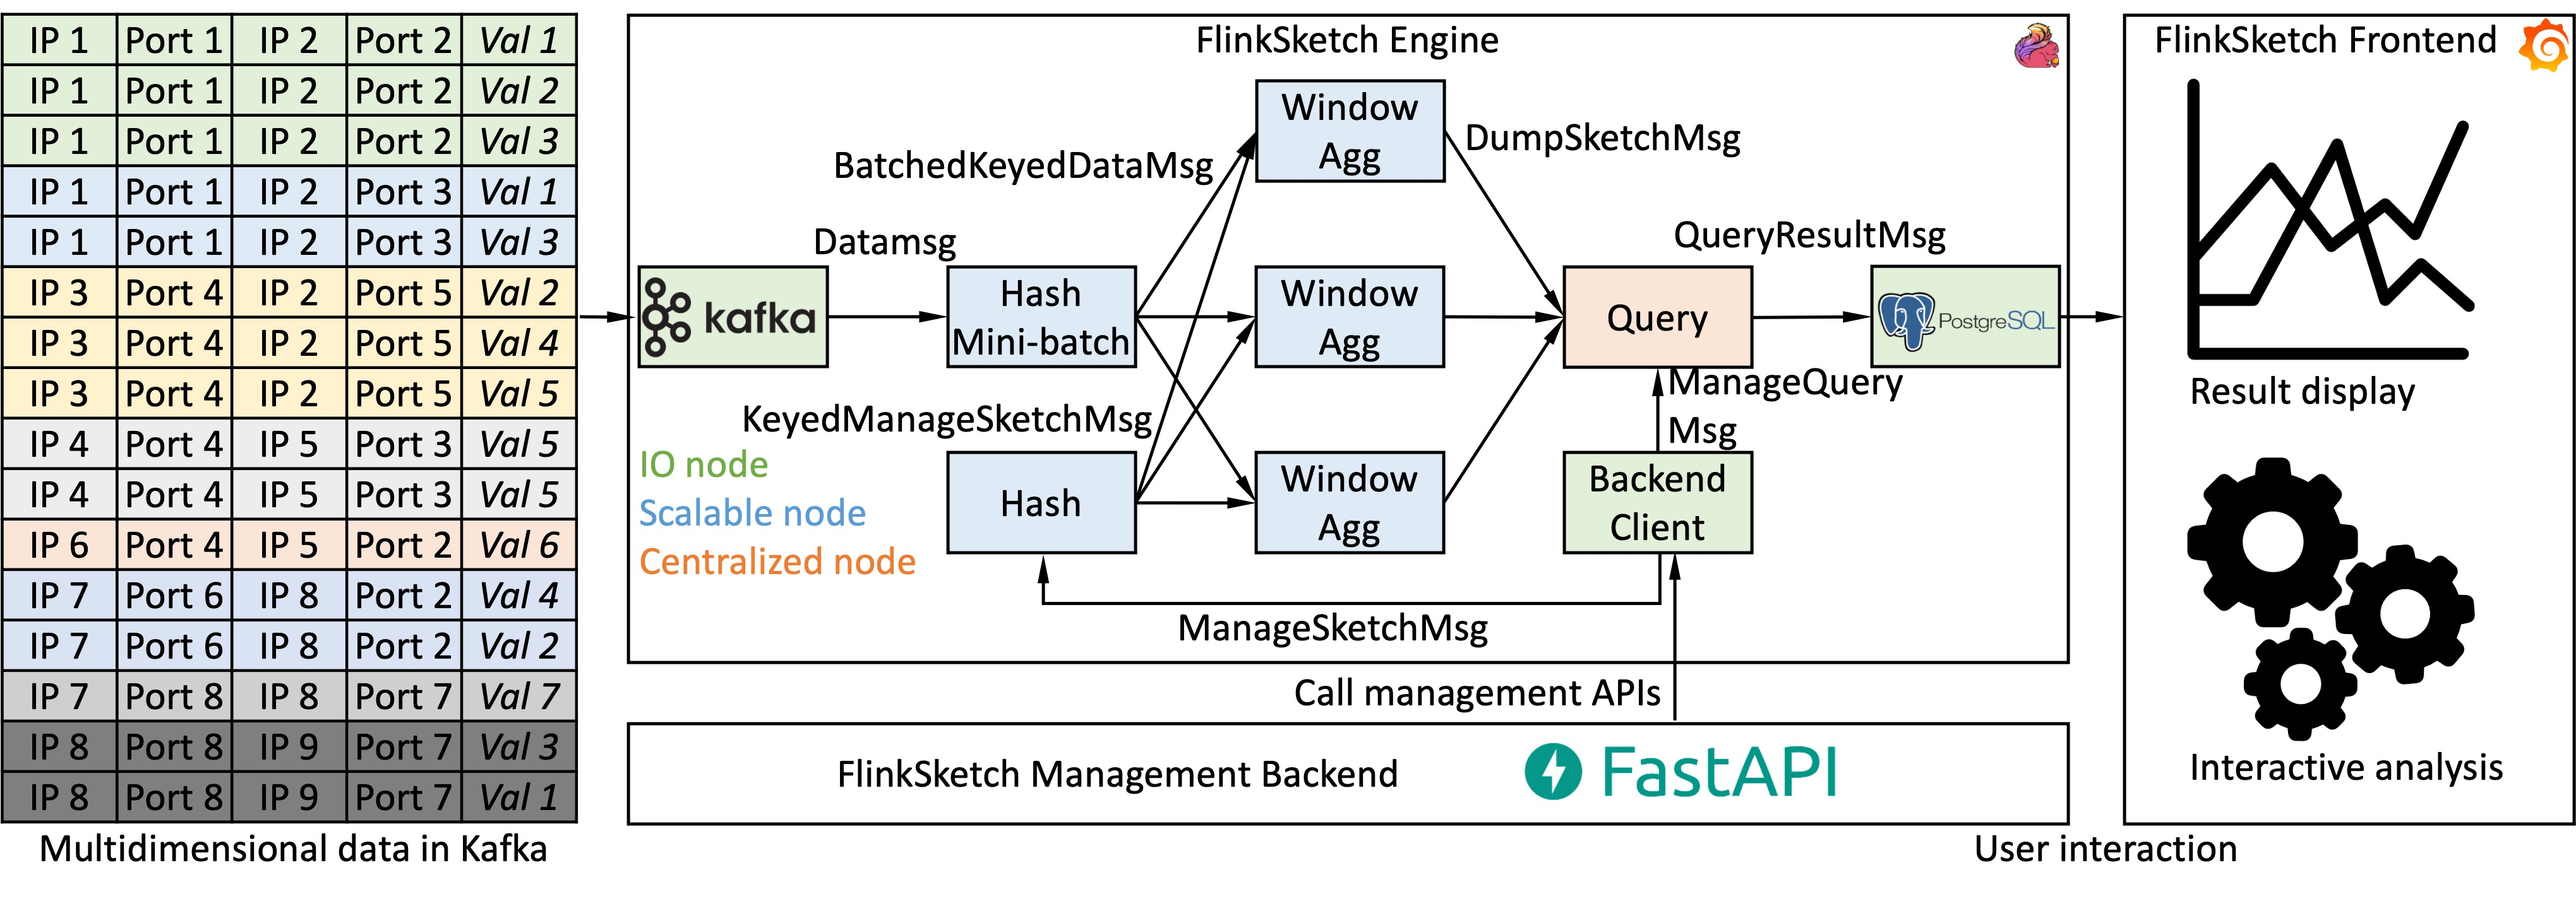
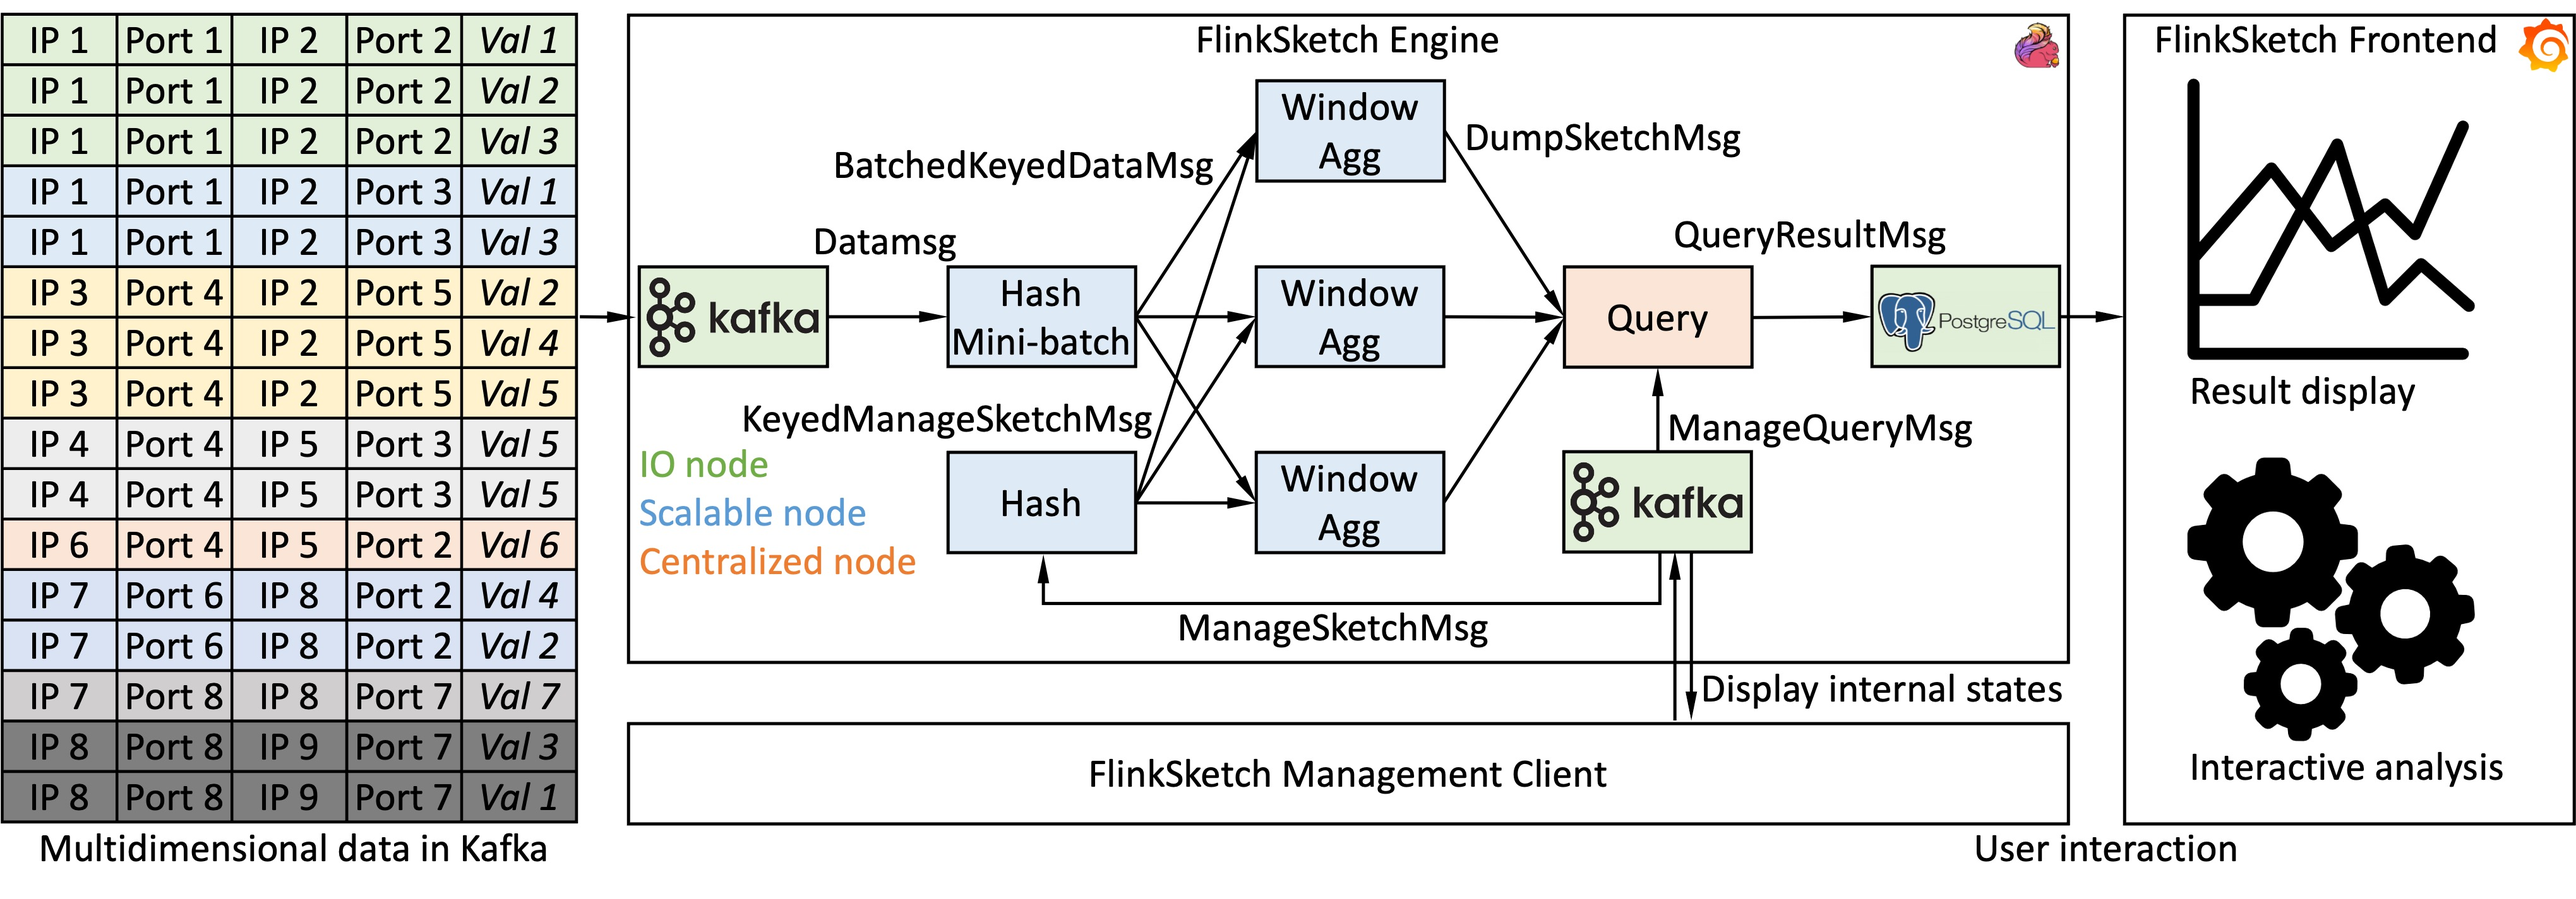
Update flinksketch figure

diff --git a/_pages/project.md b/_pages/project.md
@@ -9,7 +9,7 @@ redirect_from:
 **FlinkSketch - A Sketch Analytical System for Multidimensional Data Streams**\
 August 2022 - Present\
 [[LINK]](https://github.com/wateryloo/flinksketch)
-![](../images/FlinkSketch.jpg)
+![](../images/flinksketch.jpg)
 - Implement a sketch system based on Apache Flink.
 - Implement sketch-of-sketches to reduce memory consumption.
 
